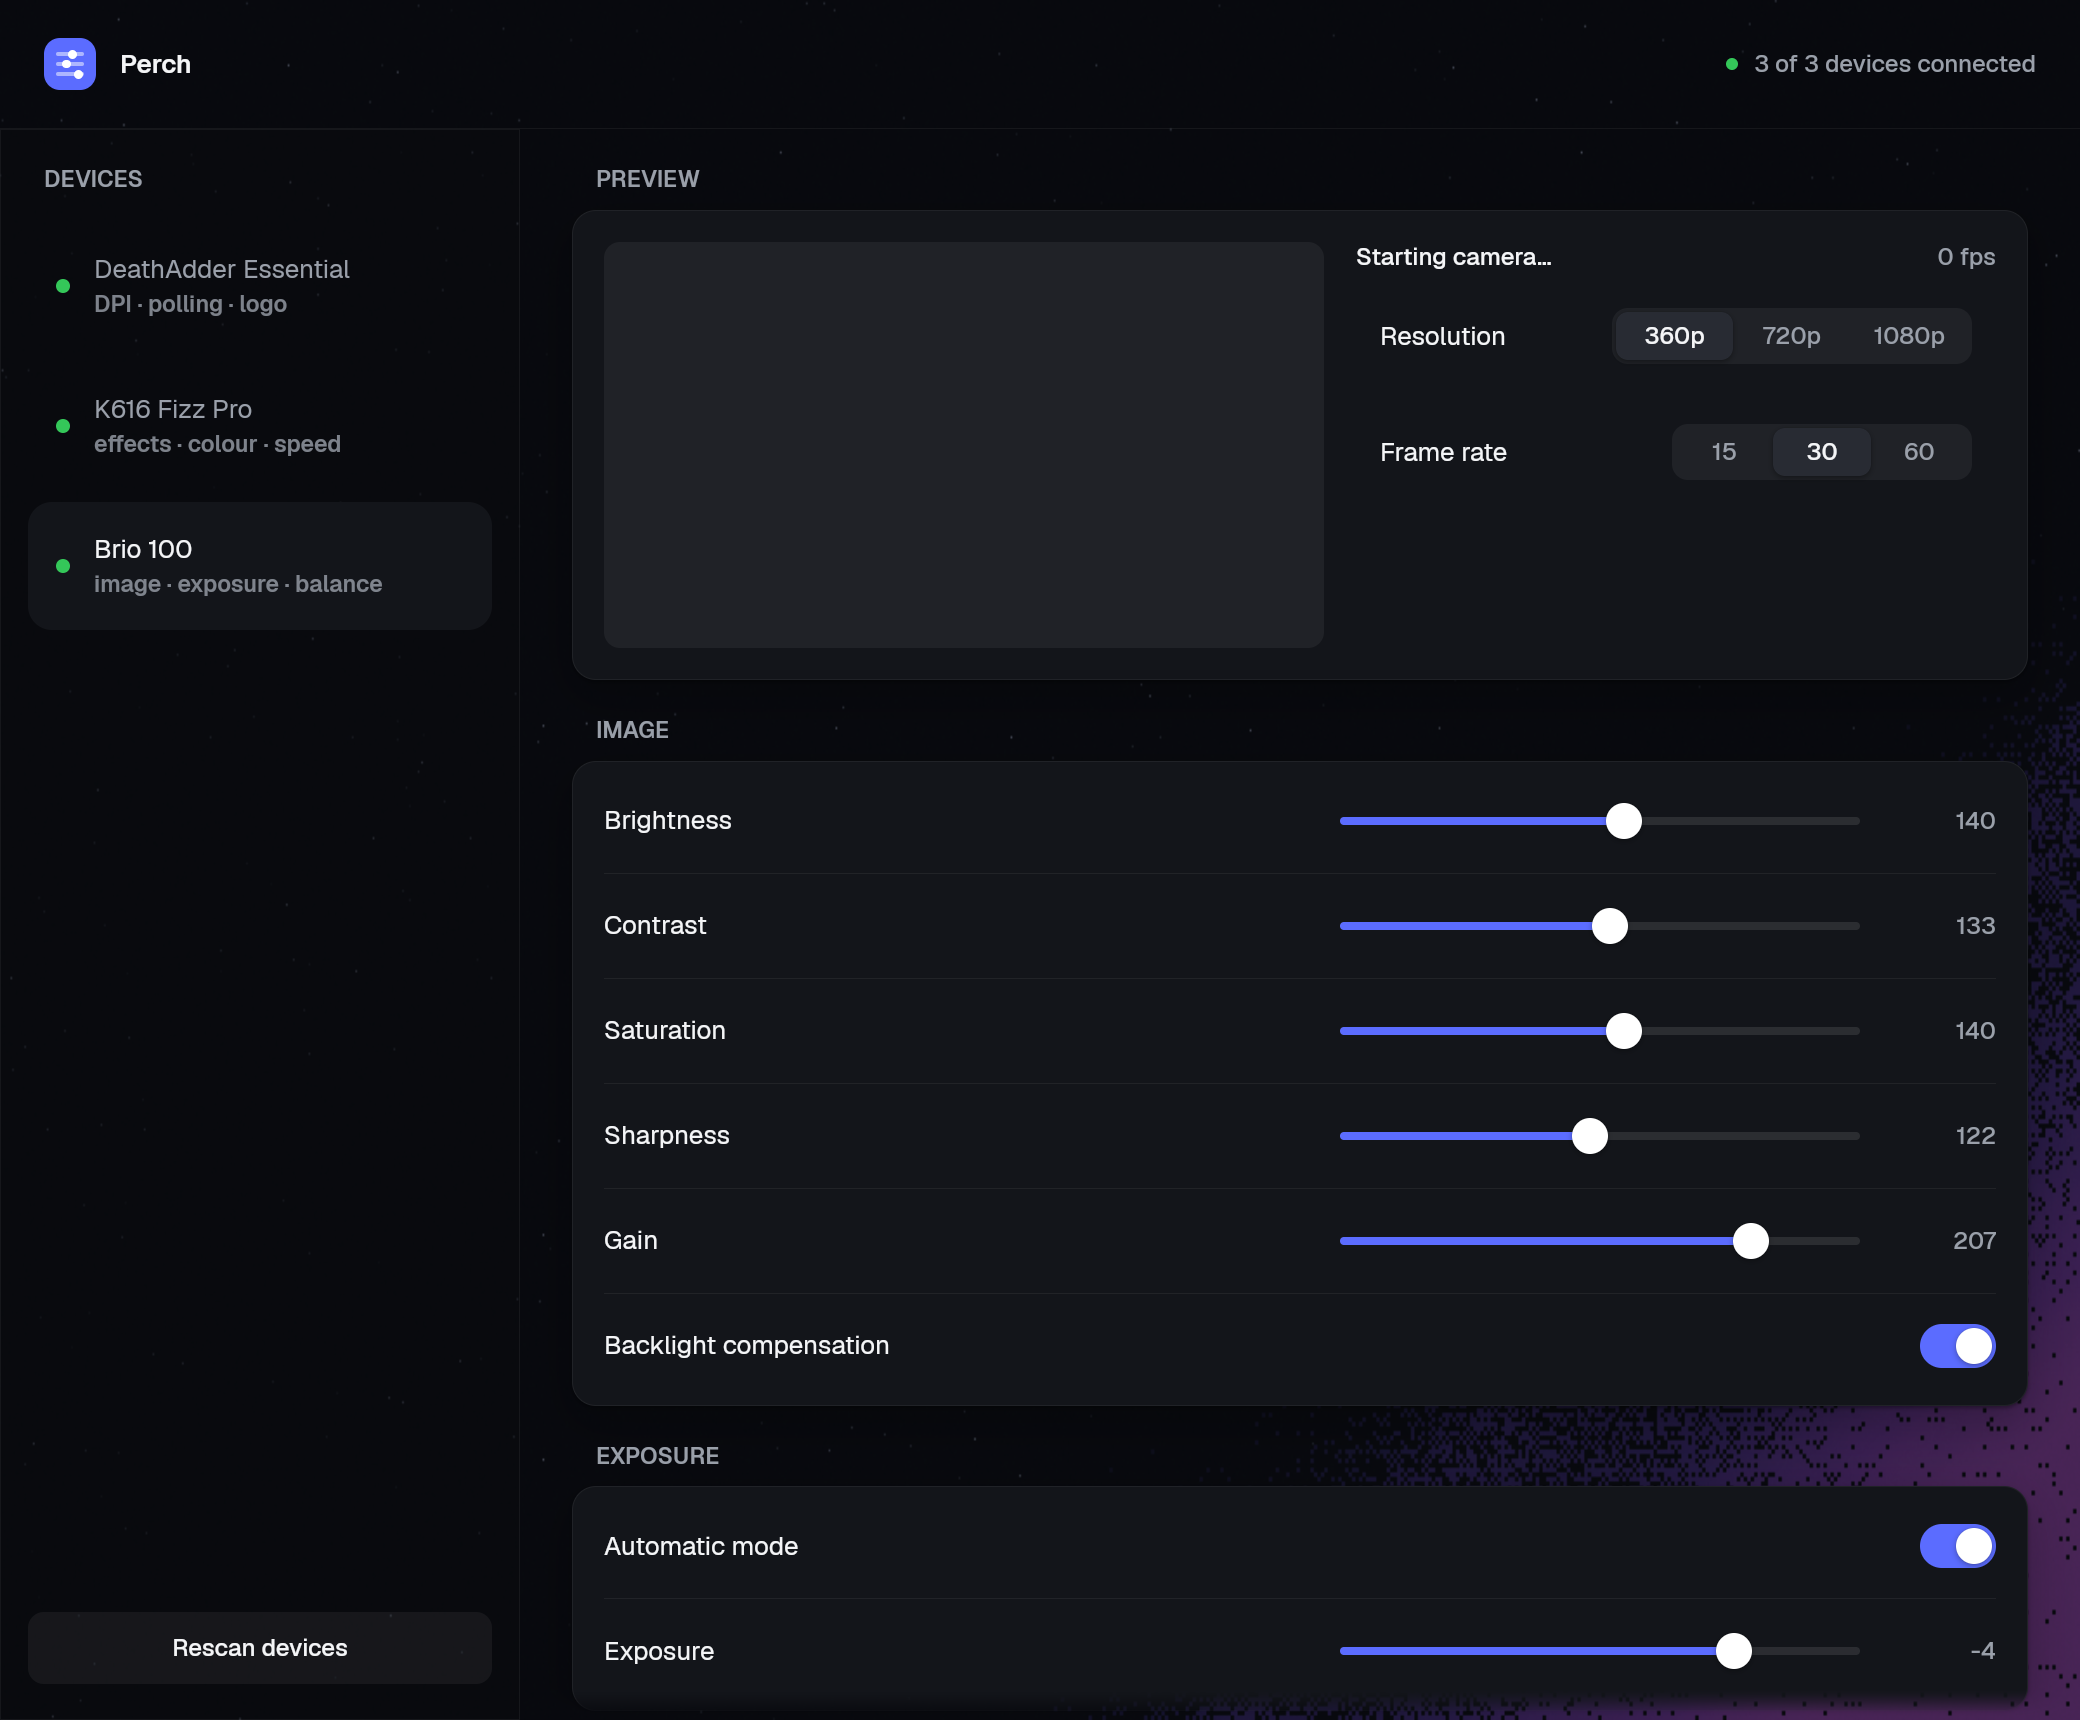
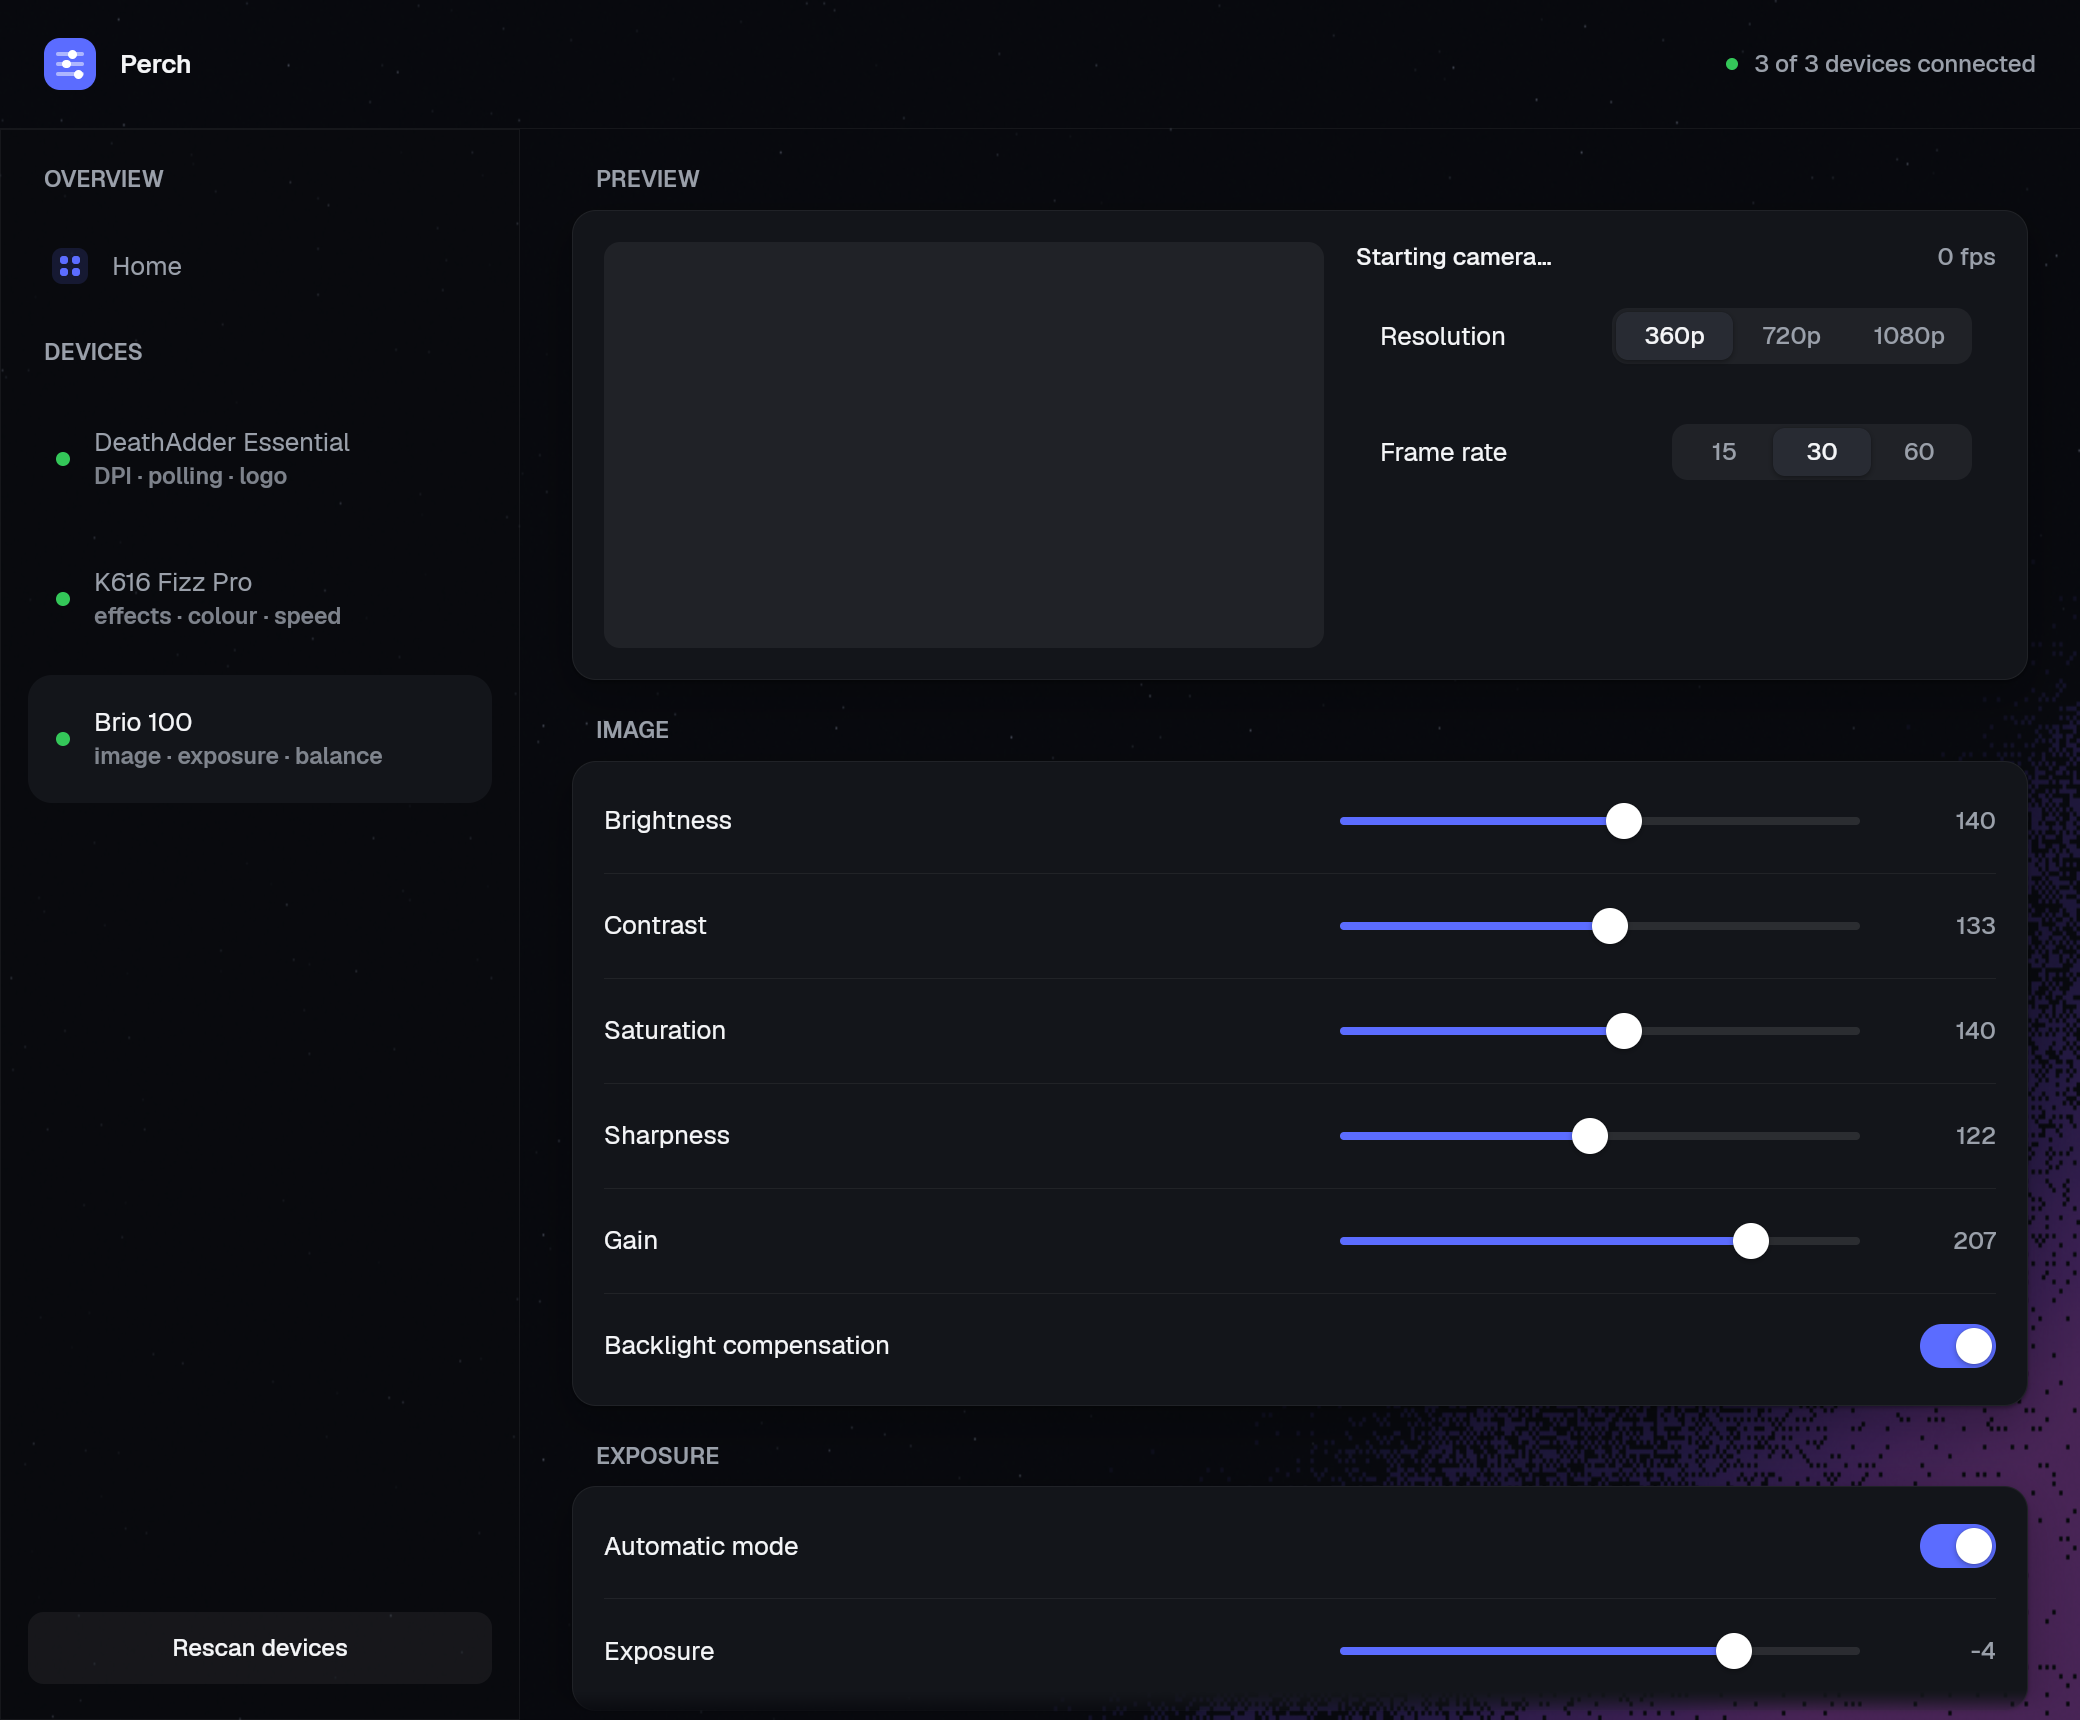
feat(ui): land on a home overview
- New Home tab: hero, then one card per device with live values, connection state and a direct open action.
- Sidebar gains an Overview entry; every tab change goes through App::go, which owns the camera preview lifecycle.
- Scenes: home, mouse, keyboard, camera; docs regenerated and the home shot added to the README.
- Test covers landing on Home, opening a device card and returning via the sidebar.

diff --git a/crates/perch-app/src/main.rs b/crates/perch-app/src/main.rs
@@ -7,7 +7,7 @@ use std::sync::atomic::{AtomicBool, Ordering};
 use std::sync::{Arc, Mutex};
 
 use perch_core::{camera, razer, redragon};
-use rune::tok::{self, Theme, motion, radius, space, type_};
+use rune::tok::{self, Theme, TextStyle, motion, radius, space, type_};
 use rune::{Align, AppSpec, Color, Cx, Drag, El, Phase, Pixels, ScrollSpec, col, el, row, text};
 
 struct Preview {
@@ -174,7 +174,17 @@ fn brand(p: Paint) -> El {
     }
     m
 }
+fn grid_mark(p: Paint) -> El {
+    let mut m = el().size(18.0, 18.0).radius(5.0).fill(p.accent.alpha(0.15));
+    for (x, y) in [(4.0f32, 4.0f32), (10.0, 4.0), (4.0, 10.0), (10.0, 10.0)] {
+        m = m.child(el().size(4.0, 4.0).absolute(x, y).radius(1.5).fill(p.accent));
+    }
+    m
+}
+
 const SLIDER_W: f32 = 260.0;
+const HERO: TextStyle = TextStyle::new(28.0, 600.0);
+const CARD_TITLE: TextStyle = TextStyle::new(16.0, 600.0);
 
 const SWATCHES: [(&str, [u8; 3]); 9] = [
     ("red", [255, 0, 0]),
@@ -220,6 +230,7 @@ fn cam_label(id: camera::ControlId) -> &'static str {
 
 #[derive(Debug, Clone, Copy, PartialEq, Eq)]
 enum Tab {
+    Home,
     Mouse,
     Keyboard,
     Camera,
@@ -248,6 +259,20 @@ struct App {
 }
 
 impl App {
+    /// Tab changes own the preview lifecycle: it only runs while the camera is
+    /// on screen, so Home and the other panels keep the window cheap.
+    fn go(&mut self, tab: Tab) {
+        if self.tab == tab {
+            return;
+        }
+        if tab == Tab::Camera {
+            self.preview.start();
+        } else {
+            self.preview.stop();
+        }
+        self.tab = tab;
+    }
+
     fn rescan(&mut self) {
         self.mouse = razer::Mouse::open().ok();
         match &self.mouse {
@@ -435,7 +460,7 @@ fn downscale(w: u32, h: u32, rgba: Vec<u8>) -> (u32, u32, Vec<u8>) {
 
 fn init() -> App {
     let mut app = App {
-        tab: Tab::Mouse,
+        tab: Tab::Home,
         status: String::new(),
         mouse: None,
         dpi: 1600,
@@ -580,16 +605,7 @@ fn sidebar(s: &App, p: Paint) -> El {
                 .fill(if selected { p.t.card } else { Color::TRANSPARENT })
                 .hover(p.t.hover)
                 .press(p.t.press)
-                .on_press(move |s: &mut App| {
-                    if s.tab != tab {
-                        if tab == Tab::Camera {
-                            s.preview.start();
-                        } else {
-                            s.preview.stop();
-                        }
-                    }
-                    s.tab = tab;
-                })
+                .on_press(move |s: &mut App| s.go(tab))
                 .child(
                     row()
                         .gap(space::S3)
@@ -624,6 +640,33 @@ fn sidebar(s: &App, p: Paint) -> El {
         );
     }
 
+    let home_selected = s.tab == Tab::Home;
+    let home = el()
+        .key("home-nav")
+        .role("tab")
+        .label("Home")
+        .checked(home_selected)
+        .focusable(true)
+        .h(44.0)
+        .px(12.0)
+        .radius(radius::LG)
+        .fill(if home_selected { p.t.card } else { Color::TRANSPARENT })
+        .hover(p.t.hover)
+        .press(p.t.press)
+        .on_press(|s: &mut App| s.go(Tab::Home))
+        .child(
+            row()
+                .gap(space::S3)
+                .center_y()
+                .child(grid_mark(p))
+                .child(
+                    text("Home")
+                        .key("name")
+                        .font(type_::BODY)
+                        .color(if home_selected { p.t.text } else { p.t.text_secondary }),
+                ),
+        );
+
     col()
         .key("sidebar")
         .w(260.0)
@@ -633,6 +676,14 @@ fn sidebar(s: &App, p: Paint) -> El {
         .gap(14.0)
         .fill(p.t.bg.alpha(0.42))
         .border(p.hair, p.t.card_border)
+        .child(
+            text("OVERVIEW")
+                .key("overview")
+                .font(type_::SECTION)
+                .color(p.t.text_secondary)
+                .ml(space::S2),
+        )
+        .child(home)
         .child(
             text("DEVICES")
                 .key("devices")
@@ -672,6 +723,16 @@ fn panel(s: &App, p: Paint) -> El {
         .scroll_edge_fade(16.0)
         .scroll(ScrollSpec { stick_bottom: false });
     body = match s.tab {
+        Tab::Home => body
+            .child(home_hero(p))
+            .child(home_cards(s, p))
+            .child(el().grow(1.0))
+            .child(
+                text("Settings are written to the device, not kept in a config file.")
+                    .key("home-note")
+                    .font(type_::SECTION)
+                    .color(p.t.text_secondary.alpha(0.7)),
+            ),
         Tab::Mouse => body
             .child(section(
                 p,
@@ -709,6 +770,156 @@ fn panel(s: &App, p: Paint) -> El {
         Tab::Camera => camera_panel(s, p),
     };
     body
+}
+
+fn home_hero(p: Paint) -> El {
+    col()
+        .key("hero")
+        .gap(7.0)
+        .pt(10.0)
+        .child(
+            text("SETUP")
+                .font(type_::SECTION.tracking(0.9))
+                .color(p.t.text_secondary),
+        )
+        .child(
+            text("Your gear, at a glance.")
+                .font(HERO.tracking(-0.2))
+                .color(p.t.text),
+        )
+        .child(
+            text("Pick a device to tune it. Every change is applied as you make it.")
+                .font(type_::BODY)
+                .color(p.t.text_secondary),
+        )
+}
+
+fn home_cards(s: &App, p: Paint) -> El {
+    let mouse_stats = if s.mouse.is_some() {
+        format!("{} DPI · {} Hz", s.dpi, s.polling)
+    } else {
+        "—".into()
+    };
+    let key_stats = if s.keyboard.is_some() {
+        format!("{} · speed {}/4", s.key_effect.name(), s.key_speed)
+    } else {
+        "—".into()
+    };
+    let cam_stats = if s.camera.is_some() {
+        let auto = s
+            .cam_control(camera::ControlId::Exposure)
+            .and_then(|c| c.auto)
+            .unwrap_or(false);
+        format!(
+            "{} controls · {}",
+            s.cam.len(),
+            if auto { "auto exposure" } else { "manual exposure" }
+        )
+    } else {
+        "—".into()
+    };
+    let cam_name = s
+        .camera
+        .as_ref()
+        .map(|c| c.name.clone())
+        .unwrap_or_else(|| "Brio 100".into());
+
+    row()
+        .key("home-cards")
+        .gap(12.0)
+        .w_full()
+        .child(home_card(
+            p,
+            Tab::Mouse,
+            "home-mouse",
+            "MOUSE",
+            "DeathAdder Essential".into(),
+            s.mouse.is_some(),
+            mouse_stats,
+        ))
+        .child(home_card(
+            p,
+            Tab::Keyboard,
+            "home-keyboard",
+            "KEYBOARD",
+            "K616 Fizz Pro".into(),
+            s.keyboard.is_some(),
+            key_stats,
+        ))
+        .child(home_card(
+            p,
+            Tab::Camera,
+            "home-camera",
+            "CAMERA",
+            cam_name,
+            s.camera.is_some(),
+            cam_stats,
+        ))
+}
+
+fn home_card(
+    p: Paint,
+    tab: Tab,
+    key: &str,
+    kind: &str,
+    name: String,
+    connected: bool,
+    stats: String,
+) -> El {
+    let action = match tab {
+        Tab::Mouse => "Open mouse settings",
+        Tab::Keyboard => "Open keyboard settings",
+        Tab::Camera => "Open camera settings",
+        Tab::Home => "Home",
+    };
+    col()
+        .key(key)
+        .role("button")
+        .label(action)
+        .focusable(true)
+        .grow(1.0)
+        .h(188.0)
+        .padding(16.0)
+        .gap(6.0)
+        .radius(radius::LG)
+        .fill(p.t.card)
+        .border(p.hair, p.t.card_border)
+        .hover(p.t.hover)
+        .press(p.t.press)
+        .on_press(move |s: &mut App| s.go(tab))
+        .child(
+            text(kind)
+                .font(type_::SECTION.tracking(0.9))
+                .color(p.t.text_secondary),
+        )
+        .child(text(name).font(CARD_TITLE).color(p.t.text))
+        .child(
+            row()
+                .gap(6.0)
+                .center_y()
+                .child(
+                    el()
+                        .size(6.0, 6.0)
+                        .radius(3.0)
+                        .fill(if connected {
+                            swatch([52, 199, 89])
+                        } else {
+                            p.t.text_secondary.alpha(0.35)
+                        }),
+                )
+                .child(
+                    text(if connected { "Connected" } else { "Not found" })
+                        .font(type_::LABEL)
+                        .color(p.t.text_secondary),
+                ),
+        )
+        .child(
+            text(stats)
+                .font(type_::LABEL)
+                .color(p.t.text_secondary.alpha(0.85)),
+        )
+        .child(el().grow(1.0))
+        .child(text(action).font(type_::LABEL).color(p.accent))
 }
 
 
@@ -1432,6 +1643,8 @@ fn main() {
     rune::run(AppSpec::<App> {
         scenes: &[
             ("default", |_| {}),
+            ("home", |s| s.tab = Tab::Home),
+            ("mouse", |s| s.tab = Tab::Mouse),
             ("keyboard", |s| s.tab = Tab::Keyboard),
             ("camera", |s| s.tab = Tab::Camera),
         ],
@@ -1450,7 +1663,7 @@ mod tests {
     /// No hardware: every commit path short-circuits with "not connected".
     fn detached() -> App {
         App {
-            tab: Tab::Mouse,
+            tab: Tab::Home,
             status: String::new(),
             mouse: None,
             dpi: 1600,
@@ -1500,6 +1713,10 @@ mod tests {
     fn the_dpi_slider_reaches_the_low_end() {
         let mut rt = rune::Runtime::new(detached(), view, WINDOW, rune::Env::new(true, 1.0));
         rt.frame(0.0);
+        let (px, py) = rt.find("DeathAdder Essential").unwrap();
+        rt.pointer_down(px, py);
+        rt.pointer_up(px, py);
+        rt.frame(1.0 / 60.0);
         let (x, y) = rt.find("dpi-handle").unwrap();
         rt.pointer_down(x - 118.0, y);
         rt.frame(1.0 / 60.0);
@@ -1520,5 +1737,23 @@ mod tests {
         rt.pointer_up(x, y);
         rt.frame(1.0 / 60.0);
         assert_eq!(rt.state.key_color, [0, 0, 255]);
+    }
+
+    #[test]
+    fn home_opens_the_device_it_names() {
+        let mut rt = rune::Runtime::new(detached(), view, WINDOW, rune::Env::new(true, 1.0));
+        rt.frame(0.0);
+        assert_eq!(rt.state.tab, Tab::Home, "the app lands on Home");
+        let (x, y) = rt.find("home-keyboard").unwrap();
+        rt.pointer_down(x, y);
+        rt.pointer_up(x, y);
+        rt.frame(1.0 / 60.0);
+        assert_eq!(rt.state.tab, Tab::Keyboard);
+
+        let (x, y) = rt.find("home-nav").unwrap();
+        rt.pointer_down(x, y);
+        rt.pointer_up(x, y);
+        rt.frame(1.0 / 60.0);
+        assert_eq!(rt.state.tab, Tab::Home);
     }
 }

diff --git a/README.md b/README.md
@@ -64,7 +64,7 @@ crates/perch-core/
   redragon.rs   captured 1032-byte firmware-effect bursts, colour at block 1[29..31]
   camera.rs     DirectShow IAMVideoProcAmp / IAMCameraControl
 crates/perch-cli/   `perch`
-crates/perch-app/   Rune window (sidebar + per-device panels)
+crates/perch-app/   Rune window (home, sidebar, per-device panels)
 docs/                rendered panels
 ```
 
@@ -98,6 +98,7 @@ Protocol notes that matter:
 - UVC control model: DirectShow; [OpenLogi](https://github.com/AprilNEA/OpenLogi)
   (Apache-2.0/MIT) covers the same ground if you want an existing camera panel.
 
+![Home](docs/ui-home.png)
 ![Mouse panel](docs/ui-mouse.png)
 ![Keyboard panel](docs/ui-keyboard.png)
 ![Camera panel](docs/ui-camera.png)
